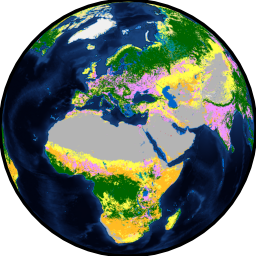
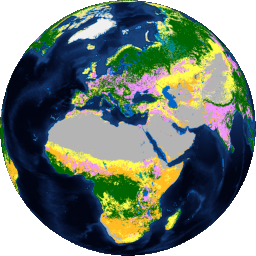
fix: remove black spine ring + alpha-threshold limb fringe
Two distinct disc-edge artifacts were stacked and previously misdiagnosed
as a single 'background bleed':

A) Black ring (1-3 px) drawn by Cartopy's default-stroked orthographic
   boundary spine. Independent of coastlines/borders/bg. Fixed by
   ax.spines['geo'].set_edgecolor('none') (with outline_patch fallback
   for older Cartopy).

B) Whitish/colour halo from bilinear partial-alpha pixels left by the
   bg COG warp on transparent canvas. Fixed by _snap_png_alpha(), a
   PIL post-process that thresholds the saved PNG's alpha channel to
   a hard binary mask. Only applied when transparent=True.

Also adds plans/limb_bleed_avenues.md documenting the two artifacts,
the working fixes, and all rejected approaches with the reason each
failed.

All images regenerated with the combined fix.

Changed region(s): [[0.0625, 0.0, 1.0, 0.75], [0.0, 0.25, 0.9375, 1.0]]

diff --git a/scripts/orthographic_globe.py b/scripts/orthographic_globe.py
@@ -72,6 +72,7 @@ import matplotlib.pyplot as plt
 import numpy as np
 import rasterio
 import rasterio.windows as rwin
+from PIL import Image
 from rasterio.enums import Resampling
 
 # ---------------------------------------------------------------------------
@@ -607,58 +608,29 @@ def load_data(
     return rgba, extent
 
 
-def _mask_to_hemisphere(
-    rgb: np.ndarray,
-    extent: list[float],
-    center_lon: float,
-    center_lat: float,
-    margin_deg: float = 1.5,
-) -> np.ndarray:
-    """Return an RGBA array with alpha=0 for pixels beyond the visible hemisphere.
+def _snap_png_alpha(path: Path, threshold: int = 128) -> None:
+    """Threshold the alpha channel of a saved PNG to a hard binary mask.
 
-    Pixels whose great-circle distance from ``(center_lon, center_lat)`` is
-    ≥ ``90° − margin_deg`` are made fully transparent.  This prevents bilinear
-    resampling artifacts ("blue ring") at the orthographic limb where Cartopy
-    warps pixels from just outside the visible hemisphere onto the disc edge.
+    Cartopy reprojects rasters with bilinear interpolation, leaving a thin
+    ring of partial-alpha pixels at the orthographic disc edge.  On a
+    transparent canvas these read as a sand/whitish halo over light land
+    (Sahara) and a near-invisible dark fringe over ocean.  This helper
+    snaps every alpha value to either 0 or 255 based on ``threshold``,
+    yielding a hard pixel-aligned limb.
+
+    See plans/limb_bleed_avenues.md (option 3 — fixes "artifact B").
 
     Args:
-        rgb: ``(H, W, 3)`` uint8 RGB array.
-        extent: ``[left, right, bottom, top]`` in degrees (PlateCarree).
-        center_lon: Central longitude of the orthographic projection (degrees).
-        center_lat: Central latitude of the orthographic projection (degrees).
-        margin_deg: Pixels within this many degrees of the limb are also
-            masked; guards against sub-pixel interpolation fringe.
-
-    Returns:
-        ``(H, W, 4)`` uint8 RGBA array.
+        path: Path to an RGBA PNG.  Replaced in-place.
+        threshold: Alpha cutoff (0–255).  Pixels with alpha ≥ threshold become
+            fully opaque; the rest become fully transparent.
     """
-    h, w = rgb.shape[:2]
-    left, right, bottom, top = extent
-
-    # Build pixel-centre lon/lat grids (radians).
-    lons = np.radians(np.linspace(left,   right, w, endpoint=False) + (right - left) / (2 * w))
-    lats = np.radians(np.linspace(top,    bottom, h, endpoint=False) + (bottom - top) / (2 * h))
-    lon_grid, lat_grid = np.meshgrid(lons, lats)
-
-    clat = np.radians(center_lat)
-    clon = np.radians(center_lon)
-
-    # Great-circle distance via the spherical law of cosines (numerically
-    # stable for angles up to ~π; sufficient here since we only care about
-    # values near π/2).
-    cos_d = (
-        np.sin(clat) * np.sin(lat_grid)
-        + np.cos(clat) * np.cos(lat_grid) * np.cos(lon_grid - clon)
-    )
-    # cos_d = 1 at center, 0 at limb (90°), negative beyond.
-    threshold = np.cos(np.radians(90.0 - margin_deg))  # cos of (90 - margin)
-
-    alpha = np.where(cos_d >= threshold, 255, 0).astype(np.uint8)
-
-    rgba = np.empty((h, w, 4), dtype=np.uint8)
-    rgba[:, :, :3] = rgb
-    rgba[:, :, 3]  = alpha
-    return rgba
+    with Image.open(path) as im:
+        if im.mode != "RGBA":
+            im = im.convert("RGBA")
+        arr = np.array(im, dtype=np.uint8)
+    arr[:, :, 3] = np.where(arr[:, :, 3] >= threshold, 255, 0).astype(np.uint8)
+    Image.fromarray(arr, mode="RGBA").save(path)
 
 
 def load_background(
@@ -815,13 +787,22 @@ def build_figure(
         ax = fig.add_subplot(1, n, i + 1, projection=proj)
         ax.set_facecolor(bg_rgba)
 
+        # Hide the orthographic boundary spine.  Cartopy strokes it in black
+        # (~1pt) by default, which renders as a 1-3 px dark ring around the
+        # disc — visible regardless of coastlines/borders/bg.  The spine still
+        # clips the axes content; only its visible stroke is suppressed.
+        # See plans/limb_bleed_avenues.md (option 0).
+        try:
+            ax.spines["geo"].set_edgecolor("none")
+        except (KeyError, AttributeError):
+            outline = getattr(ax, "outline_patch", None)
+            if outline is not None:
+                outline.set_edgecolor("none")
+
         # --- Background layer (zorder 0) -----------------------------------
         if bg_rgb is not None:
-            # Mask pixels outside the visible hemisphere so bilinear
-            # resampling cannot smear background colour onto the disc edge.
-            bg_masked = _mask_to_hemisphere(bg_rgb, bg_extent, view.lon, view.lat)
             ax.imshow(
-                bg_masked,
+                bg_rgb,
                 origin="upper",
                 extent=bg_extent,
                 transform=ccrs.PlateCarree(),
@@ -1034,6 +1015,8 @@ def run_all_renders(
             )
             fig.savefig(output, dpi=dpi, transparent=transparent, facecolor=fig.get_facecolor())
             plt.close(fig)
+            if transparent:
+                _snap_png_alpha(output)
             print(f"  Saved -> {output}")
 
         # --- Optional icon output ------------------------------------------
@@ -1064,6 +1047,8 @@ def run_all_renders(
                 facecolor=icon_fig.get_facecolor(),
             )
             plt.close(icon_fig)
+            if transparent:
+                _snap_png_alpha(icon_path)
             print(f"  Saved icon → {icon_path}")
 
 

diff --git a/plans/limb_bleed_avenues.md b/plans/limb_bleed_avenues.md
@@ -1,0 +1,72 @@
+# Orthographic globe — limb fringe / bleed: fix avenues
+
+## Resolved: two distinct artifacts at the disc edge
+
+The "bleed/ring" is actually two separate effects stacked on top of each other. Misdiagnosing as one caused several failed attempts:
+
+| # | Artifact | Visible as | Root cause | Fix |
+|---|---|---|---|---|
+| **A** | **Black ring**, 1–3 px wide, around the disc | Hard dark circle, present even with no bg COG, no coastlines, no borders | Cartopy strokes the orthographic boundary spine (`ax.spines['geo']`) with default `edgecolor='black'`, `linewidth ≈ 1pt` | **Option 0** below — `ax.spines['geo'].set_edgecolor('none')` |
+| **B** | **Whitish/colour halo**, sub-pixel, only on the bottom/coloured half | Faint light fringe (Sahara → sand-coloured rim, ocean → near-invisible dark rim) | Cartopy reprojects the bg COG with bilinear interpolation; rim pixels are partial-alpha blends of bg colour and the transparent figure facecolor | **Option 3** below — alpha-threshold the saved PNG via PIL |
+
+Both fixes are independent and complementary; the final solution applies them together.
+
+## Fix avenues
+
+Tried-and-rejected approaches are crossed out / marked INSUFFICIENT.
+
+### 0. Hide the orthographic boundary spine — **CHOSEN (fixes artifact A)**
+
+```python
+ax.spines['geo'].set_edgecolor('none')
+# legacy Cartopy fallback:
+# ax.outline_patch.set_edgecolor('none')
+```
+
+- **Pros**: directly removes the actual artifact; preserves PNG transparency; one-line change. The spine still clips the axes content; only its visible stroke is suppressed.
+- **Cons**: none observed.
+- **Status**: applied. Removes the dark ring entirely.
+
+### 3. Post-process saved PNG — threshold the alpha channel — **CHOSEN (fixes artifact B)**
+
+Load the saved PNG with PIL, threshold its alpha channel to a hard binary mask (`alpha = np.where(alpha >= 128, 255, 0)`), and re-save in place.
+
+- **Pros**: deterministic; preserves PNG transparency outside the disc; ~10 lines of code; no dependence on Cartopy AA internals.
+- **Cons**: hard pixel-aligned limb (no AA at all). Imperceptible at icon size (256 px) and the 2100 px main globe size.
+- **Status**: applied as `_snap_png_alpha()` after every transparent `fig.savefig`. Cleans the bilinear partial-alpha rim left by the bg COG warp.
+
+### 1. Disable AA on the orthographic boundary spine — INSUFFICIENT
+
+```python
+ax.spines['geo'].set_antialiased(False)
+```
+
+- **Status**: tried — only sharpens the spine *stroke*, doesn't remove it. Superseded by option 0.
+
+### 2. Render with an opaque dark-ocean figure facecolor — INSUFFICIENT
+
+Replace `BACKGROUND = "transparent"` with an opaque dark-ocean colour so AA at the rim blends to ocean.
+
+- **Status**: tried, reverted — spine stroke remained, PNG lost its transparent corners, and any non-abyssal disc area still showed a contrast band.
+
+### 4. Render at 2× then downsample with explicit hard-mask alpha
+
+- **Status**: not needed once options 0 + 3 work together. Keep as last resort if higher-quality limb AA is ever required.
+
+### 5. Set boundary to a slightly inset circle + disable AA
+
+- **Status**: variant of option 1. Not needed.
+
+### ~~A. Alpha-mask the bg raster to the visible hemisphere~~ — DOES NOT WORK
+
+- **Why it failed**: introduces a wider semi-transparent ring; reverted.
+
+### ~~B. Set axes facecolor to opaque deep ocean RGBA~~ — DOES NOT WORK
+
+- **Why it failed**: only affects what's behind the bg image inside the disc; both real artifacts (spine stroke and bilinear rim) are drawn on top.
+
+## Lessons learned
+
+- When debugging visual artifacts, sample actual pixel colours/alphas at suspected edges before theorising. Several rounds were wasted because "it looks like background bleed" became the working hypothesis without checking that the visible ring was actually solid black, not partial-alpha ocean.
+- Cartopy's orthographic GeoAxes adds a default-stroked boundary spine even when no styling is requested. Always set `ax.spines['geo'].set_edgecolor('none')` for clean compositing.
+- A bilinear-warped raster on transparent canvas always produces a partial-alpha rim; an alpha threshold post-process is the cheapest robust cleanup.